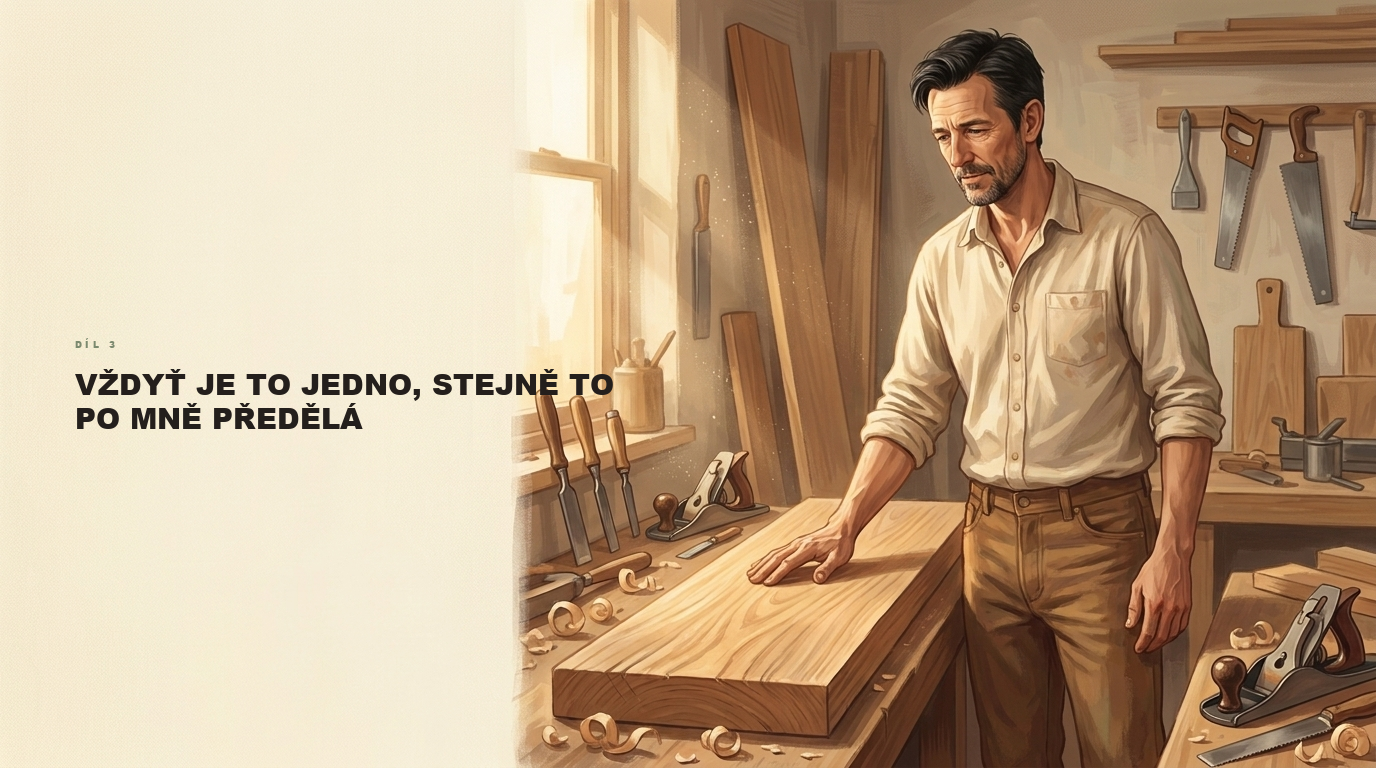
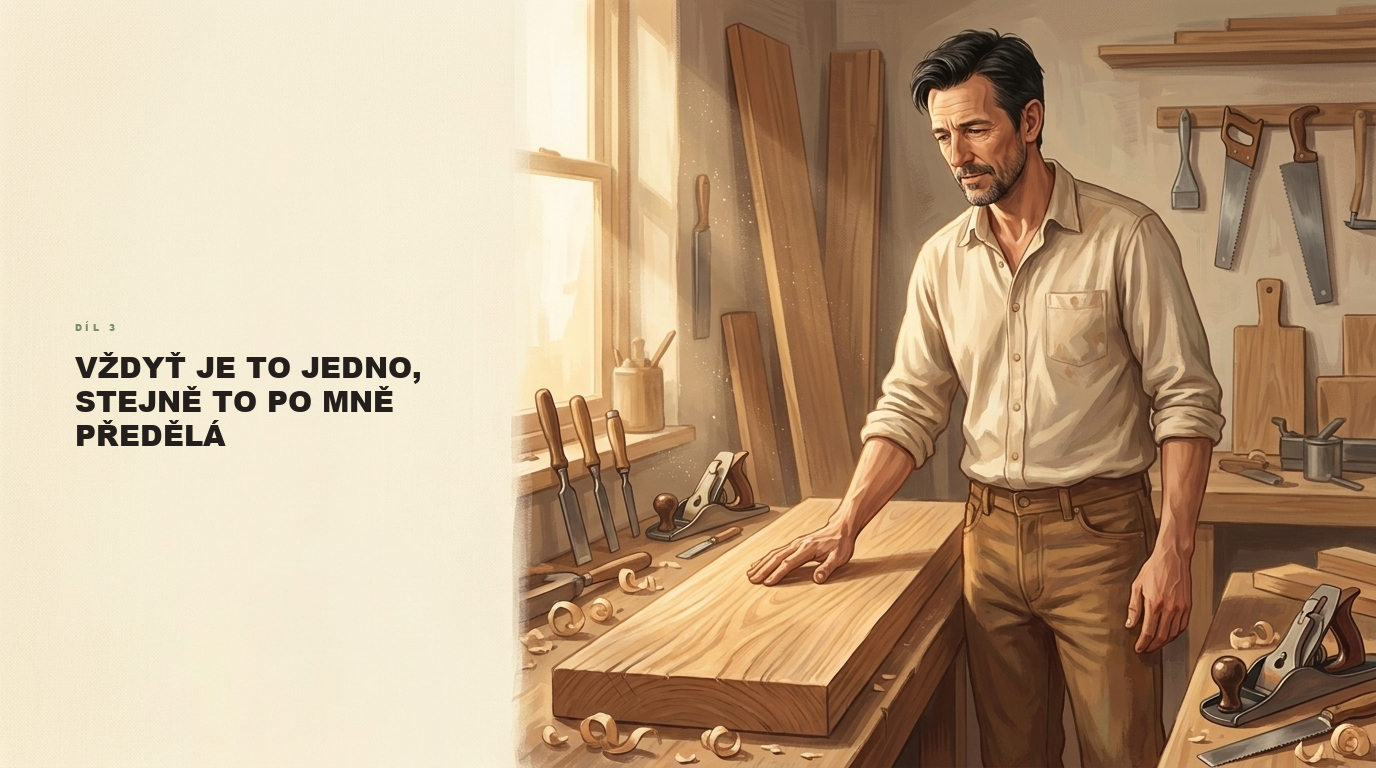
Bannery: text drží v klidné ploše, Díl 1 přepnut na vypálený název
- Sazební plocha se měří z obrázku, text nikdy nezasahuje do motivu
- Díl 1 dostal nazev_v_banneru: true (stránka název nepíše, zůstává skrytý H1)

Changed region(s): [[0.0312, 0.4375, 0.4375, 0.5938]]

diff --git a/JE-CAS-ZIT_helena-image-recept.md b/JE-CAS-ZIT_helena-image-recept.md
@@ -131,7 +131,9 @@ v hlavičce dílu — stránka pak název nepíše podruhé).
   nikdy ne „dopočítat podle délky". Dlouhý název se zalomí do víc řádků, velikost zůstane.
 - **Nadřádek „DÍL x":** 0,013 × výška, prostrkaný, barva šalvěj `#7C8A6F`
 - **Barva názvu:** `#241F1C` · **řádkování** 1,18 · **odsazení zleva** 5,5 % šířky
-- **Sazební plocha:** levých 40 % šířky (klidná plocha banneru)
+- **Sazební plocha se MĚŘÍ z obrázku** — skript najde, kde v levé polovině začíná motiv
+  (skok v pestrosti sloupců), a text zalomí tak, aby do motivu nikdy nezasáhl. Dlouhý název
+  se proto rozloží na víc řádků, velikost písma zůstává stejná.
 - Čistá verze bez textu se ukládá jako `*-banner-cisty.png` — kdyby se přesazovalo.
 
 ### Které obrázky web potřebuje

diff --git a/obsah/JE-CAS-ZIT-DIL-01-Prostreno-pro-ctyricet.md b/obsah/JE-CAS-ZIT-DIL-01-Prostreno-pro-ctyricet.md
@@ -5,6 +5,7 @@ slug: prostreno-pro-ctyricet
 datum: 2026-08-10
 banner: /images/dil-01-banner-16x9.png
 karta: /images/dil-01-karta-3x2.png
+nazev_v_banneru: true
 og: /images/og-dil-01.jpg
 anotace: "Helena umí zařídit všechno. Dokonalý stůl, každý detail sladěný. Jen na jednu jedinou věc celý život zapomínala."
 ---
